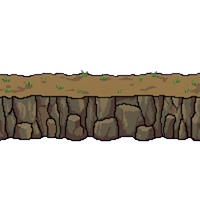
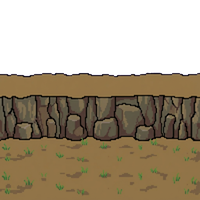
Refine north cliff prompt

diff --git a/scripts/generate_assets.py b/scripts/generate_assets.py
@@ -38,7 +38,7 @@ EDGE_ORIENTATIONS = [
     ),
     (
         "ew_s",
-        "Horizontal cliff edge segment running east-west, spanning fully from left edge to right edge with no diagonal sections. High ground/rim with grass tufts is on the south (bottom) side; low ground/rock face drop is on the north (top) side.",
+        "Horizontal cliff edge segment running east-west, spanning fully from left edge to right edge with no diagonal sections. A bluff that descends downward: high ground/rim with grass tufts sits on the south (bottom) side; the drop/cliff face is on the north (top) side.",
     ),
     (
         "ns",
